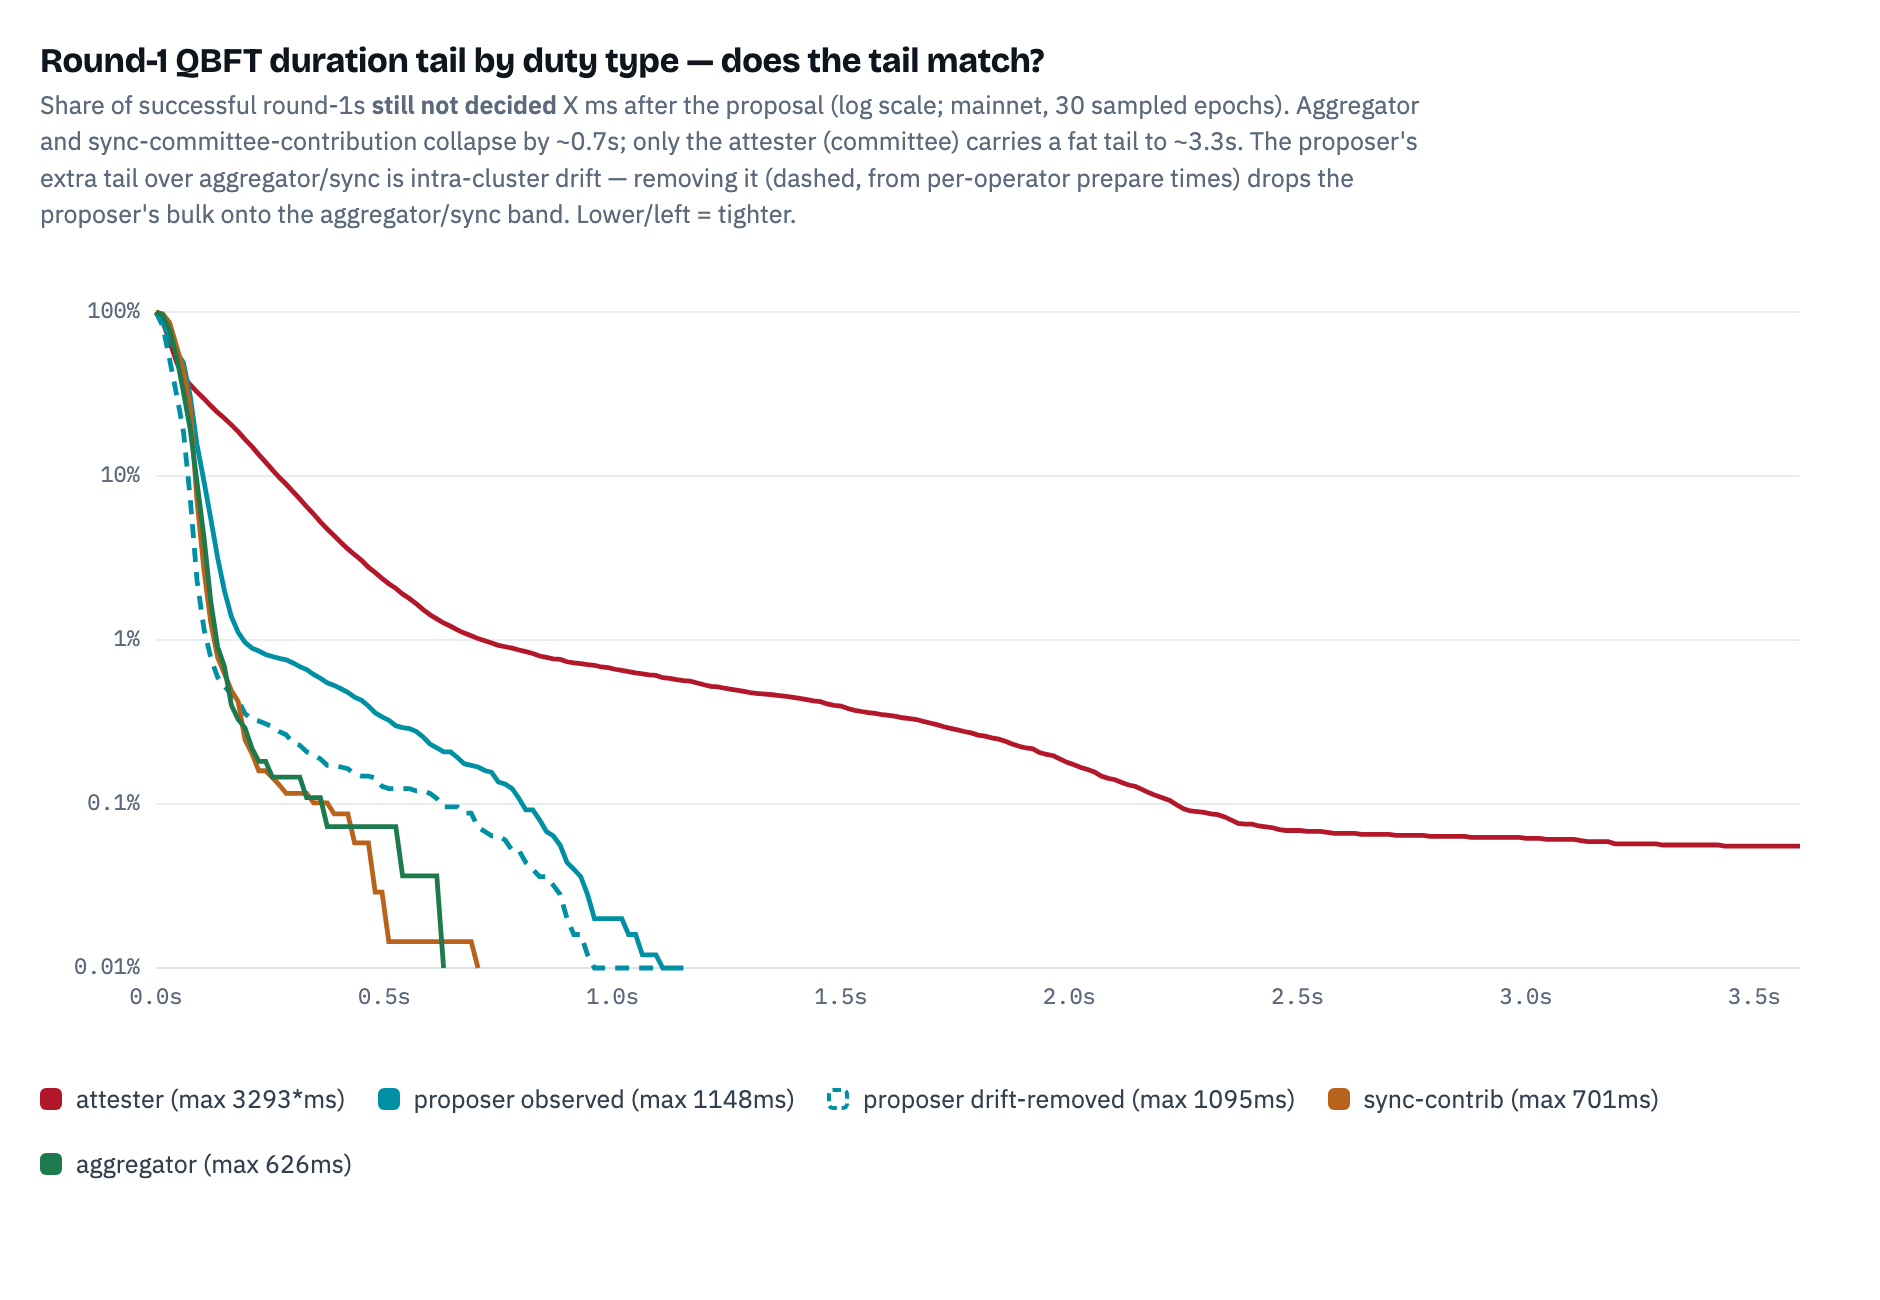
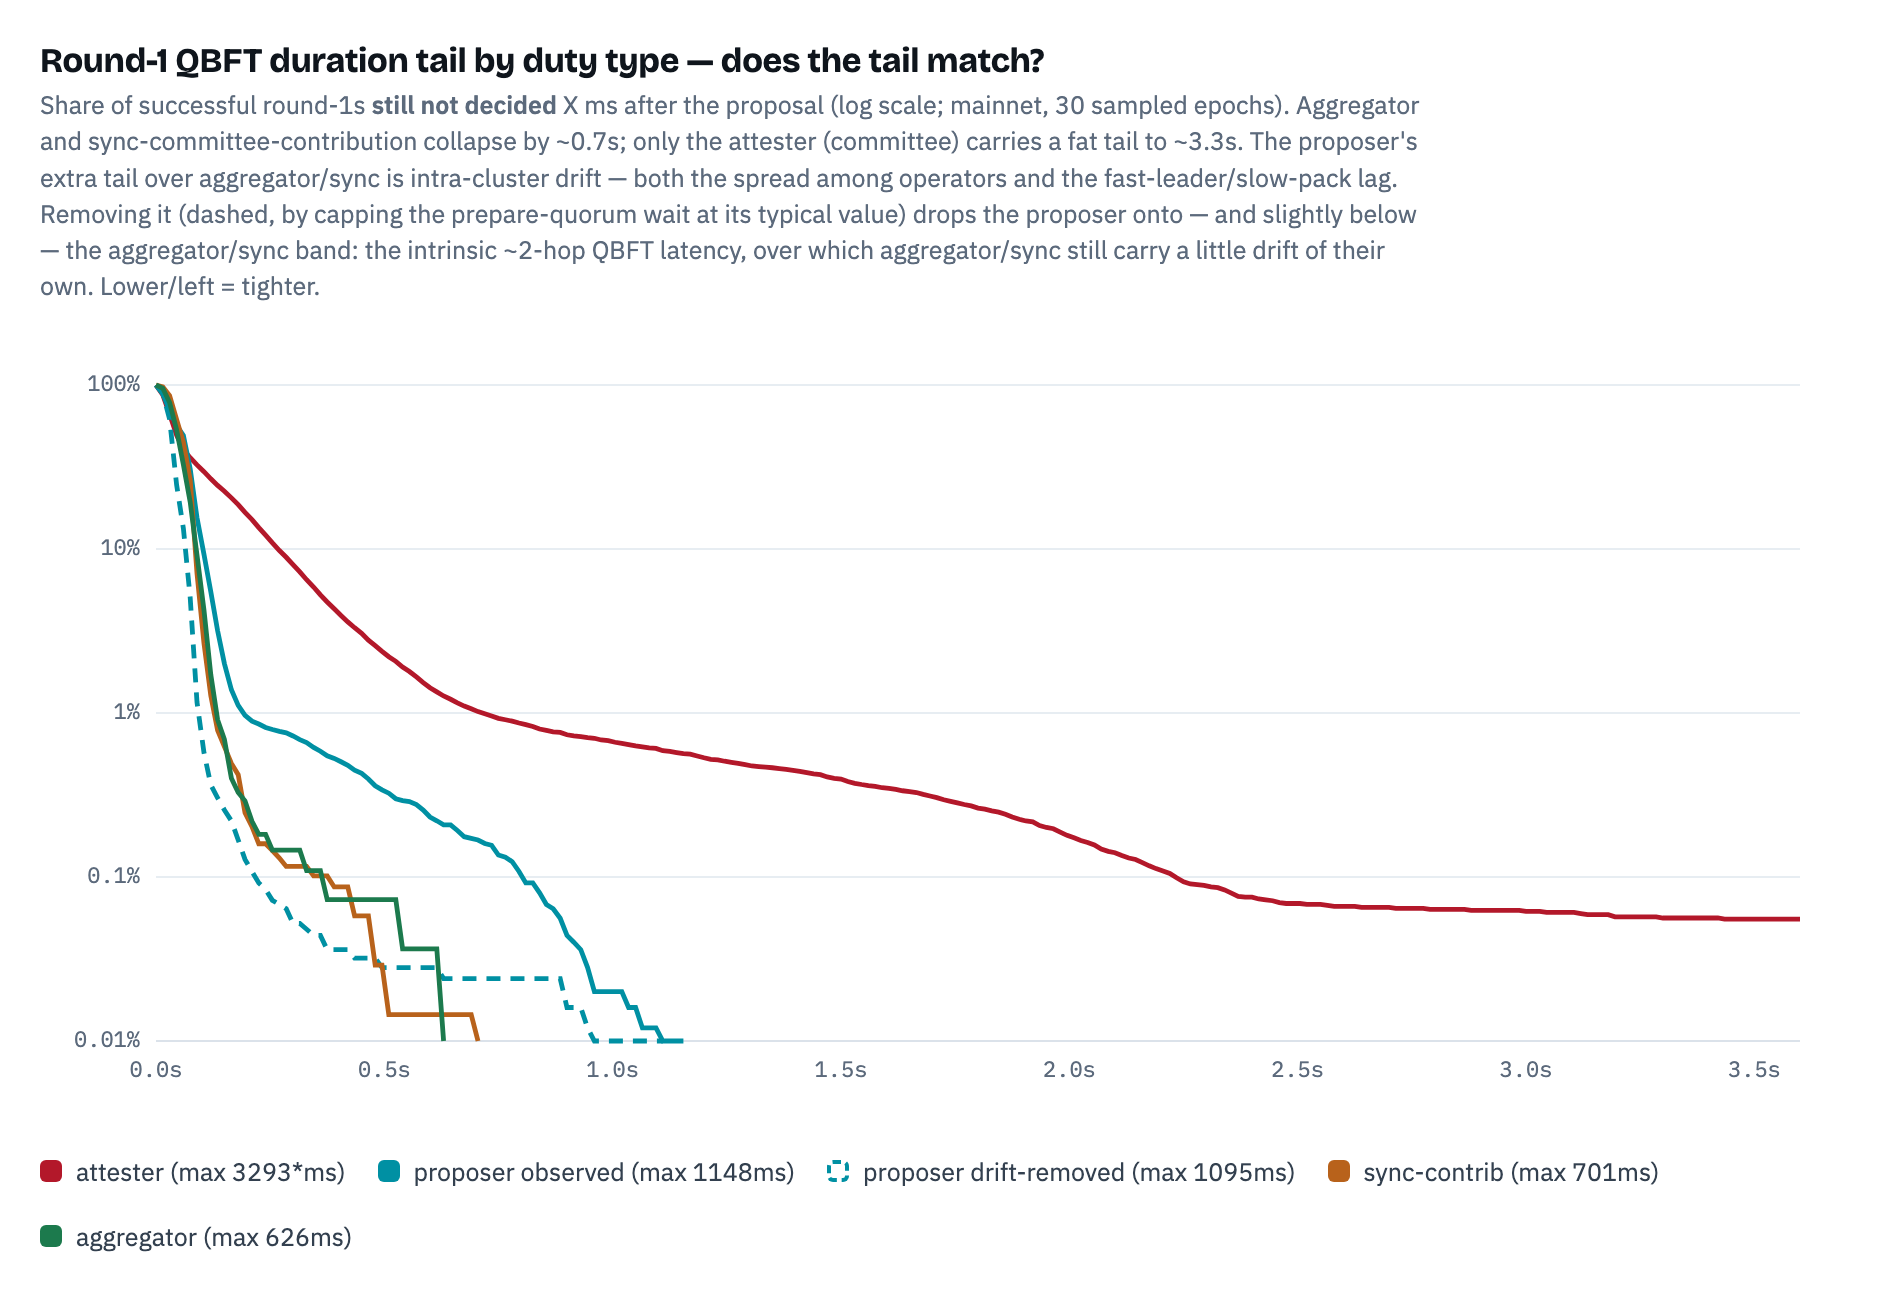
docs: refine round-1 drift removal (fast-leader/slow-pack)
The proposer's drift-removed tail sat ~300ms above aggregator/sync because the
first decomposition only removed the spread among the responding operators, not
the "fast leader, slow pack" lag: the leader gets its block early and proposes
while the rest of the cluster is still block-fetching, so even the quickest
non-leader prepares late (a proposer non-leader enters consensus only after its
own fetch). Cap the whole prepare-quorum wait (proposal -> 2f+1-th prepare) at
its typical drift-free value instead -- this captures both drift components and
drops the proposer to p99 92ms / p99.9 212ms, at or below aggregator/sync (which
retain their own small drift), leaving only a 13-duty commit-phase residual.
Updates the chart, table, and conclusions.

diff --git a/docs/analytics/round1-duration-by-duty/scripts/drift.py b/docs/analytics/round1-duration-by-duty/scripts/drift.py
@@ -2,12 +2,22 @@
 """Estimate the drift-removed ("zero drift") proposer round-1 duration from the raw
 Exporter proposer traces, using per-operator prepare times.
 
-  observed      = decided - proposal                       (gated by the marginal quorum operator)
-  drift-removed = observed - (marginal-quorum prepare - fastest non-leader prepare)
+Round-1 duration decomposes as:
+    observed = prepare-quorum wait + commit phase
+             = (2f+1-th prepare - proposal) + (decided - 2f+1-th prepare)
 
-The prepare-phase spread (fastest non-leader -> the 2f+1-th prepare) is the quorum's
-readiness drift; removing it leaves the intrinsic consensus latency. Writes
-drift_removed.json (list of ms) for compare.py, and prints the decomposition.
+The prepare-quorum wait is drift-gated: it is how long the quorum waits for its
+marginal operator to become ready, and it captures *both* forms of intra-cluster
+drift measured from the leader's proposal:
+  - spread among the responding operators, and
+  - the "fast leader, slow pack" lag (the leader got its block early and proposed
+    while the rest of the cluster was still block-fetching), since a proposer
+    non-leader can only prepare once its own fetch completes.
+
+Drift-removal caps that wait at its typical (drift-free) value Q = median wait:
+    drift-removed = observed - max(prepare-quorum wait - Q, 0)
+Well-synced duties are unchanged; drift duties shed only the excess wait, leaving
+the intrinsic ~2-hop consensus latency. Writes drift_removed.json for compare.py.
 
 Uses the raw proposer traces from the proposer analysis (regenerate them with
 ../../proposer-decision-timing/scripts/collect.py). Point PROP_DATA at that data dir.
@@ -20,7 +30,8 @@ from datetime import datetime
 
 PROP_DATA = os.environ.get("PROP_DATA", os.path.join(os.path.dirname(__file__), "..", "..", "proposer-decision-timing", "scripts", "data"))
 RAW = os.path.join(PROP_DATA, "raw")
-OUT_DIR = os.environ.get("OUT_DIR", os.path.join(os.path.dirname(__file__), "data")); os.makedirs(OUT_DIR, exist_ok=True); OUT = os.path.join(OUT_DIR, "drift_removed.json")
+OUT_DIR = os.environ.get("OUT_DIR", os.path.join(os.path.dirname(__file__), "data")); os.makedirs(OUT_DIR, exist_ok=True)
+OUT = os.path.join(OUT_DIR, "drift_removed.json")
 GENESIS, SLOT_DUR = 1606824023, 12
 
 
@@ -34,7 +45,7 @@ def pct(a, p):
     return a[int(k)] if lo == hi else a[lo] * (hi - k) + a[hi] * (k - lo)
 
 
-obs, lead = [], []
+obs, qwait, commit = [], [], []
 for f in sorted(glob.glob(f"{RAW}/*.json.gz")):
     raw = json.load(gzip.open(f))
     traces = raw if isinstance(raw, list) else (raw.get("data") or raw.get("traces") or [])
@@ -53,12 +64,15 @@ for f in sorted(glob.glob(f"{RAW}/*.json.gz")):
         q = 2 * ((n - 1) // 3) + 1
         o = decided - prop
         if o < 0: continue
-        marg_prep = pps[min(q - 1, len(pps) - 1)]     # 2f+1-th (marginal quorum) prepare
-        drift = max(marg_prep - pps[1], 0)            # spread from fastest non-leader prepare
-        obs.append(o); lead.append(max(o - drift, 0))
+        marg = pps[min(q - 1, len(pps) - 1)]     # 2f+1-th (marginal quorum) prepare
+        obs.append(o); qwait.append(max(marg - prop, 0)); commit.append(max(decided - marg, 0))
 
+Q = pct(qwait, 50)                                # typical (drift-free) prepare-quorum wait
+lead = [max(obs[i] - max(qwait[i] - Q, 0), 0) for i in range(len(obs))]
 json.dump(lead, open(OUT, "w"))
 print(f"proposer round-1 duties: {len(obs)}  ->  wrote {OUT}")
+print(f"typical prepare-quorum wait Q = {Q:.0f}ms | commit phase median {pct(commit,50):.0f}ms p99.9 {pct(commit,99.9):.0f}ms")
 print(f"{'series':22} {'p50':>5} {'p90':>5} {'p99':>6} {'p99.9':>6} {'max':>6}")
 for name, d in [("observed", obs), ("drift-removed", lead)]:
     print(f"{name:22} {pct(d,50):>5.0f} {pct(d,90):>5.0f} {pct(d,99):>6.0f} {pct(d,99.9):>6.0f} {max(d):>6.0f}")
+print(f"drift-removed >300ms (commit-phase residual): {sum(1 for x in lead if x > 300)}")

diff --git a/docs/analytics/round1-duration-by-duty/scripts/compare.py b/docs/analytics/round1-duration-by-duty/scripts/compare.py
@@ -85,7 +85,7 @@ svg .grid{{stroke:var(--grid)}}svg .axis{{stroke:var(--line)}}
 .legend{{display:flex;gap:16px;flex-wrap:wrap;margin-top:11px;font-size:12.5px;color:#33404f}}
 .legend span{{display:inline-flex;gap:7px;align-items:center}}.sw{{width:11px;height:11px;border-radius:3px;display:inline-block}}</style>
 <div class="wrap"><h3>Round-1 QBFT duration tail by duty type &mdash; does the tail match?</h3>
-<p class="cap">Share of successful round-1s <b>still not decided</b> X ms after the proposal (log scale; mainnet, 30 sampled epochs). Aggregator and sync-committee-contribution collapse by ~0.7s; only the attester (committee) carries a fat tail to ~3.3s. The proposer's extra tail over aggregator/sync is intra-cluster drift &mdash; removing it (dashed, from per-operator prepare times) drops the proposer's bulk onto the aggregator/sync band. Lower/left = tighter.</p>
+<p class="cap">Share of successful round-1s <b>still not decided</b> X ms after the proposal (log scale; mainnet, 30 sampled epochs). Aggregator and sync-committee-contribution collapse by ~0.7s; only the attester (committee) carries a fat tail to ~3.3s. The proposer's extra tail over aggregator/sync is intra-cluster drift &mdash; both the spread among operators and the fast-leader/slow-pack lag. Removing it (dashed, by capping the prepare-quorum wait at its typical value) drops the proposer onto &mdash; and slightly below &mdash; the aggregator/sync band: the intrinsic ~2-hop QBFT latency, over which aggregator/sync still carry a little drift of their own. Lower/left = tighter.</p>
 {"".join(svg)}
 <div class="legend">{leg}</div></div>"""
 page = f"{HERE}/_compare.html"; open(page, "w").write(html)

diff --git a/docs/analytics/round1-duration-by-duty/README.md b/docs/analytics/round1-duration-by-duty/README.md
@@ -8,7 +8,7 @@ How long round-1 QBFT consensus takes — from the leader's proposal to the deci
 
 - **Round-1 *duration* is tight for proposer, aggregator, and sync-contribution; only the attester has a fat tail.** Aggregator (max **626ms**) and sync-contribution (max **701ms**) hug the proposer's curve — in fact a touch tighter — while the attester trails to ~**3.3s**.
 - **That difference is structural, not incidental.** The committee (attester) runner is the only one where each operator validates the proposal against its *own* node-derived vote and does so on the *currently-arriving* head; proposer/aggregator/sync validate a self-contained value (structural-only check) built on *settled* data, so operator readiness clusters tightly.
-- **The proposer's *extra* tail over aggregator/sync is intra-cluster drift, and it separates cleanly.** The Exporter records per-operator prepare times, so removing the prepare-phase readiness spread drops the proposer's bulk (p99 **191ms → 109ms**) right onto the aggregator/sync band — the intrinsic ~30–110ms QBFT latency all four share.
+- **The proposer's *extra* tail over aggregator/sync is intra-cluster drift, and it separates cleanly.** The Exporter records per-operator prepare times, so removing the prepare-phase drift (both the spread among operators and the fast-leader/slow-pack lag) drops the proposer to **p99 92ms / p99.9 212ms** — at or below aggregator/sync, revealing the intrinsic ~2-hop QBFT latency all four share (aggregator/sync sit a little above it, still carrying their own small drift).
 
 ## The comparison
 
@@ -19,7 +19,7 @@ Round-1 duration = decided − round-1 proposal (Exporter receive-times), for ro
 | duty type | n | p50 | p90 | p99 | p99.9 | max |
 |---|--:|--:|--:|--:|--:|--:|
 | proposer (observed) | 24,984 | 59 | 102 | 191 | 796 | 1,148 |
-| **proposer (drift-removed)** | 24,984 | 31 | 71 | **109** | 625 | 1,095 |
+| **proposer (drift-removed)** | 24,984 | 34 | 67 | **92** | 212 | 1,095 |
 | aggregator | 2,746 | 47 | 89 | 128 | 335 | 626 |
 | sync-contribution | 6,897 | 55 | 86 | 127 | 344 | 701 |
 | attester (committee) | 110,244 | 44 | 267 | **712** | 2,231 | 4,010* |
@@ -39,14 +39,17 @@ So aggregator/sync decide *late* (~8.1s into slot, vs proposer's ~1.4s and attes
 
 ## Isolating the drift
 
-In the proposer's slowest round-1s the **prepare spread is ~1,145ms while the commit spread is ~18ms**: the leader prepares immediately, then the quorum waits ~1s for the *marginal operator's prepare* (its block-fetch readiness — the same clock/fetch drift measured in the [drift analysis](../operator-qbft-start-drift/README.md)), and commits fire fast once 2f+1 prepares exist. So the tail lives in the prepare phase.
+The proposer's tail lives in the **prepare phase**: in its slowest round-1s the prepare spread is ~1,145ms while the commit spread is only ~18ms — the leader prepares immediately, the quorum waits ~1s for its marginal operator, and commits fire fast once 2f+1 prepares exist. That wait carries two forms of drift, both measured from the leader's proposal:
 
-Removing it per duty — `drift-removed = observed − (2f+1-th prepare − fastest non-leader prepare)` — collapses the proposer's bulk onto the aggregator/sync band (dashed line; p50 59→31, p99 191→109). Since aggregator/sync still carry their own small drift, the fully drift-removed proposer is even a shade tighter — all three converge on the intrinsic ~30–110ms QBFT latency, exactly as expected.
+- **Spread among the responding operators** — the marginal operator lags the fastest responder.
+- **Fast leader, slow pack** — the dominant one in the extreme tail. There the leader proposed *early* (median 632ms into slot, vs 1,355ms typical) because it got its block fast, while the *whole* cluster was still block-fetching, so even the quickest non-leader prepared ~426ms later (vs a normal ~9ms hop). A proposer non-leader can only prepare once its *own* block-fetch completes ([`proposer.go`](../../../protocol/v2/ssv/runner/proposer.go), it enters consensus after fetching) — even though it doesn't need that block to validate the leader's proposal. Aggregator/sync avoid this: they aggregate a light, already-settled value at ~8s, so the cluster is ready together. This is the [full operator-start spread](../operator-qbft-start-drift/README.md) surfacing in the duration.
+
+Capping the whole prepare-quorum wait (proposal → 2f+1-th prepare) at its typical drift-free value (Q ≈ **19ms**) removes both: `drift-removed = observed − max(prepare-quorum wait − Q, 0)`. Well-synced duties are unchanged; drift duties shed only the excess wait. It drops the proposer to **p99 92ms, p99.9 212ms** (dashed line) — at or below aggregator/sync, since those retain their own small drift. All four converge on the intrinsic ~2-hop QBFT latency, exactly as expected.
 
 ## Method & caveats
 
 - **Duration is Exporter receive-times** of the round-1 proposal and the aggregated decided message; the decided is gated by the marginal (2f+1-th) operator to reach quorum.
-- **The drift removal isolates single-straggler drift** (the common case). A small residual tail remains (drift-removed p99.9 625ms, max 1,095ms) from duties where even the *second*-fastest operator was slow — multiple operators or a whole-cluster stall, which is not pairwise drift.
+- **A small residual remains in the commit phase, not the prepare phase.** After the prepare-quorum drift is removed, 13 duties still exceed 300ms (max 1,095ms) — these are slow *commit* phases (2f+1 commits forming), the genuinely irreducible tail, not readiness drift. `Q` is the population-median prepare-quorum wait; using a fixed drift-free value keeps the removal conservative (well-synced duties are untouched).
 - **Aggregator is sampled** across the validator population (~3–4% are selected per duty); sync-contribution is targeted at each epoch's sync-committee validators. Both are per-validator duties, unlike the committee-level attester.
 
 ## Reproduce
